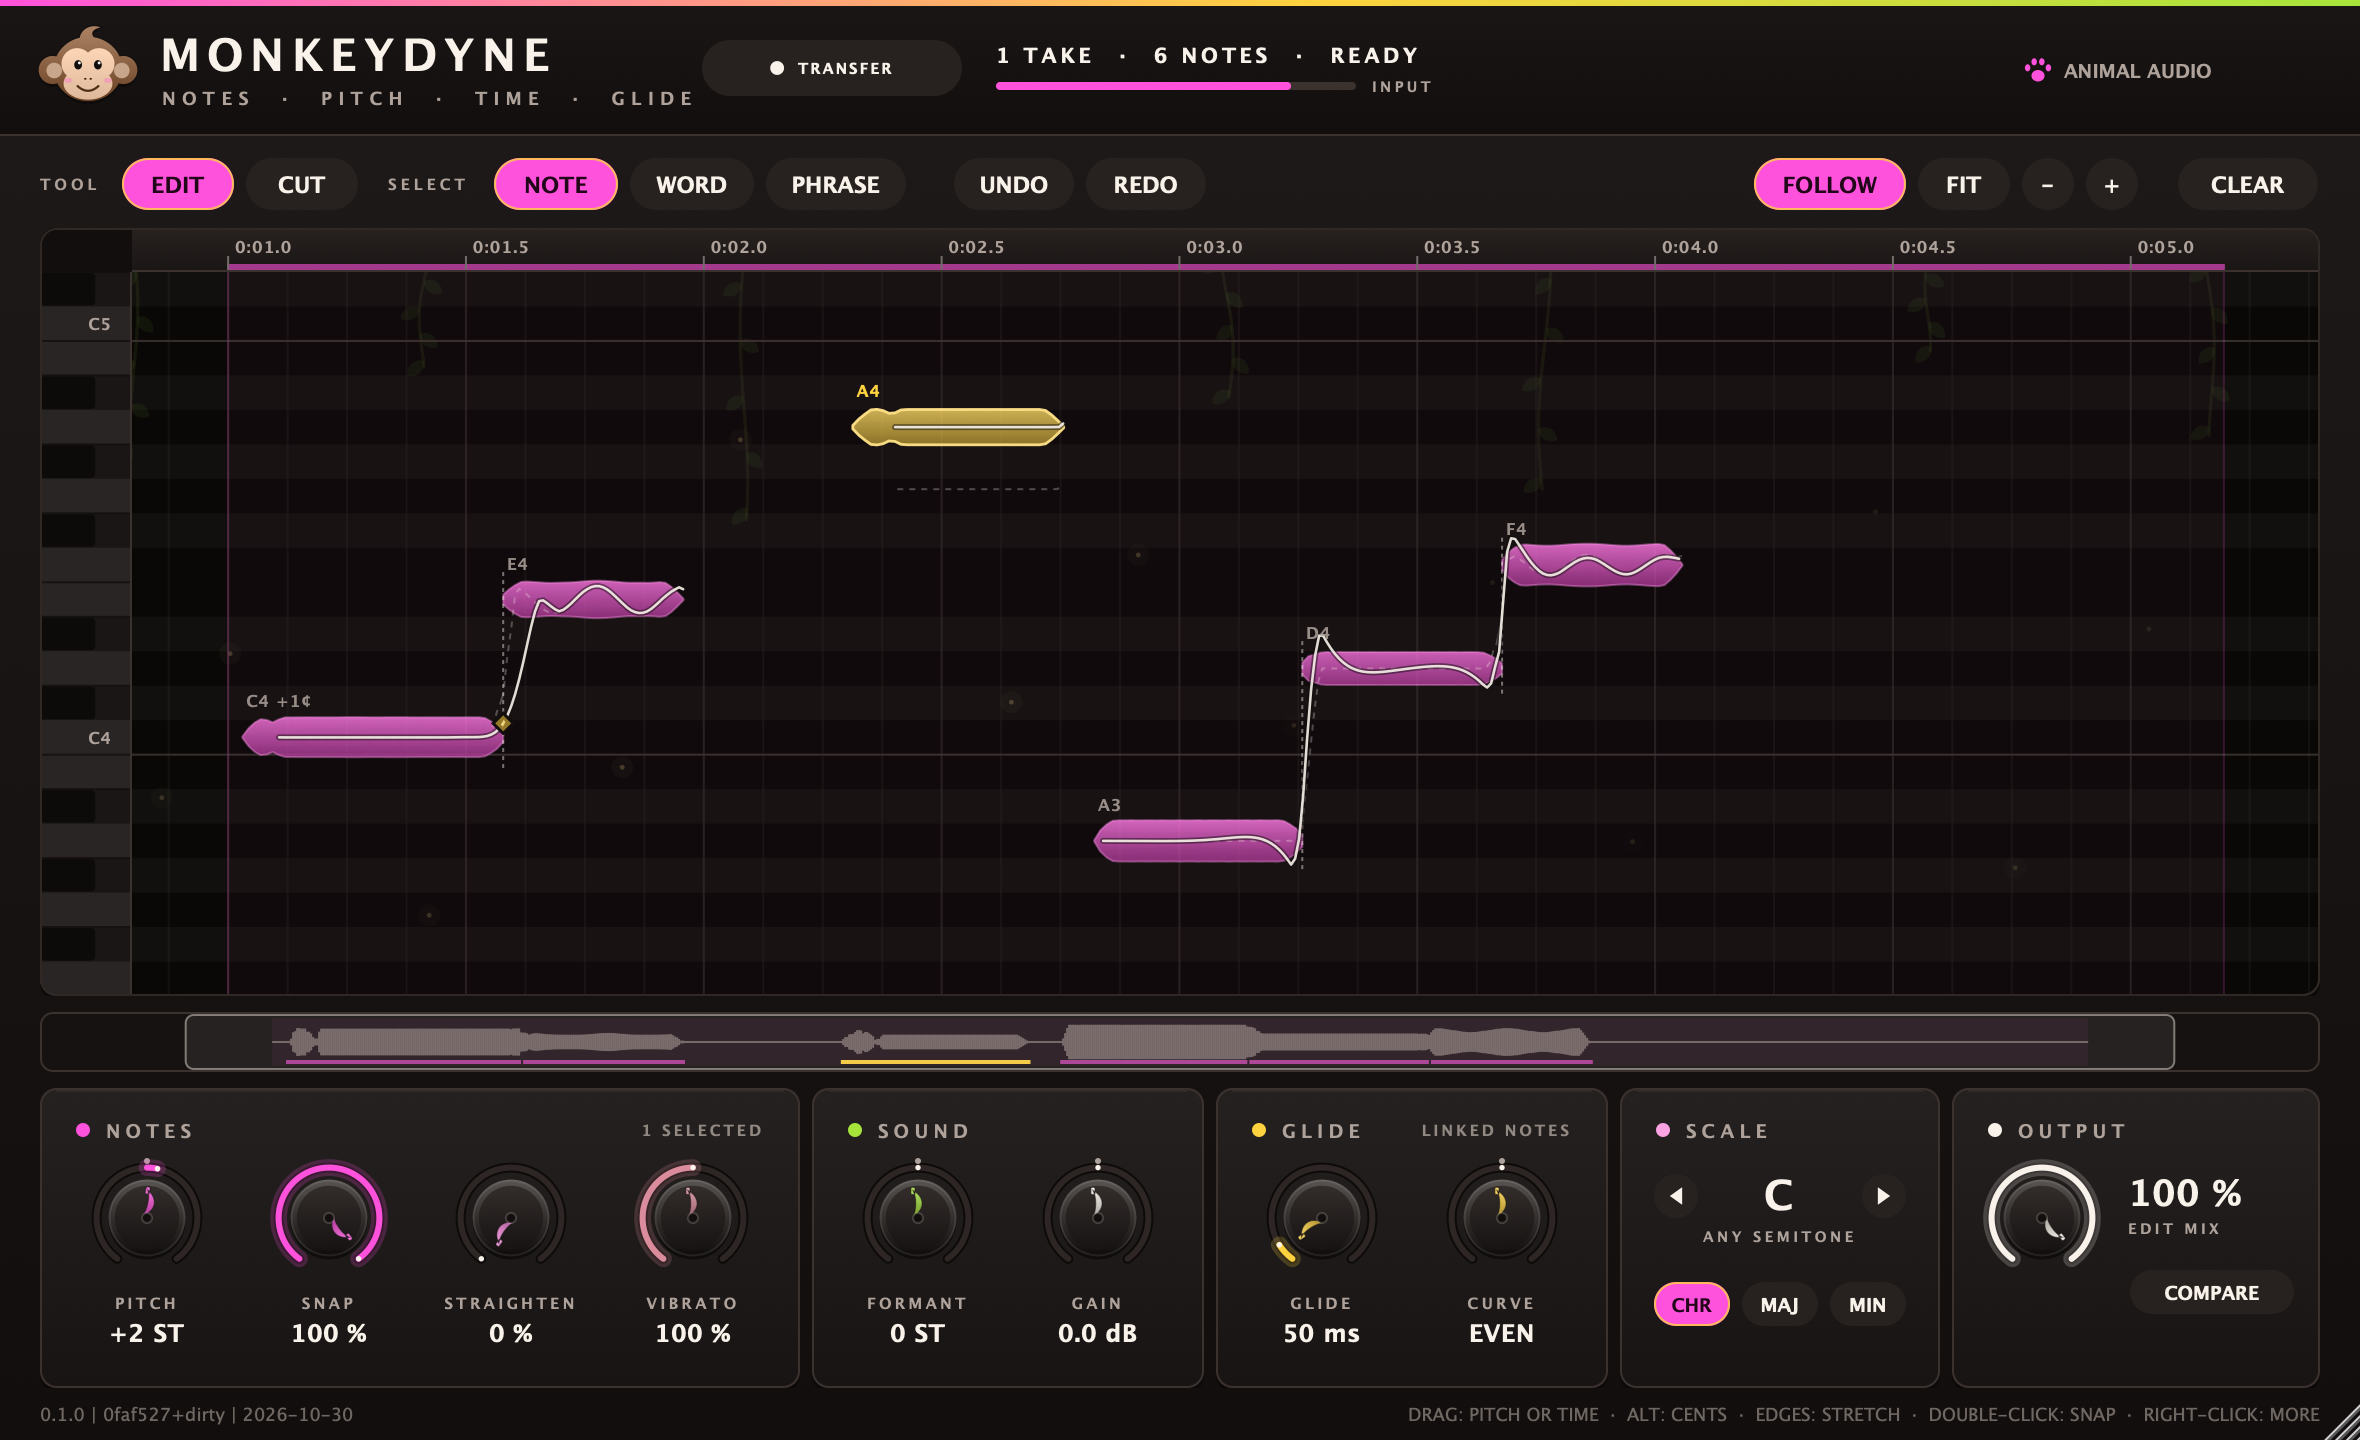
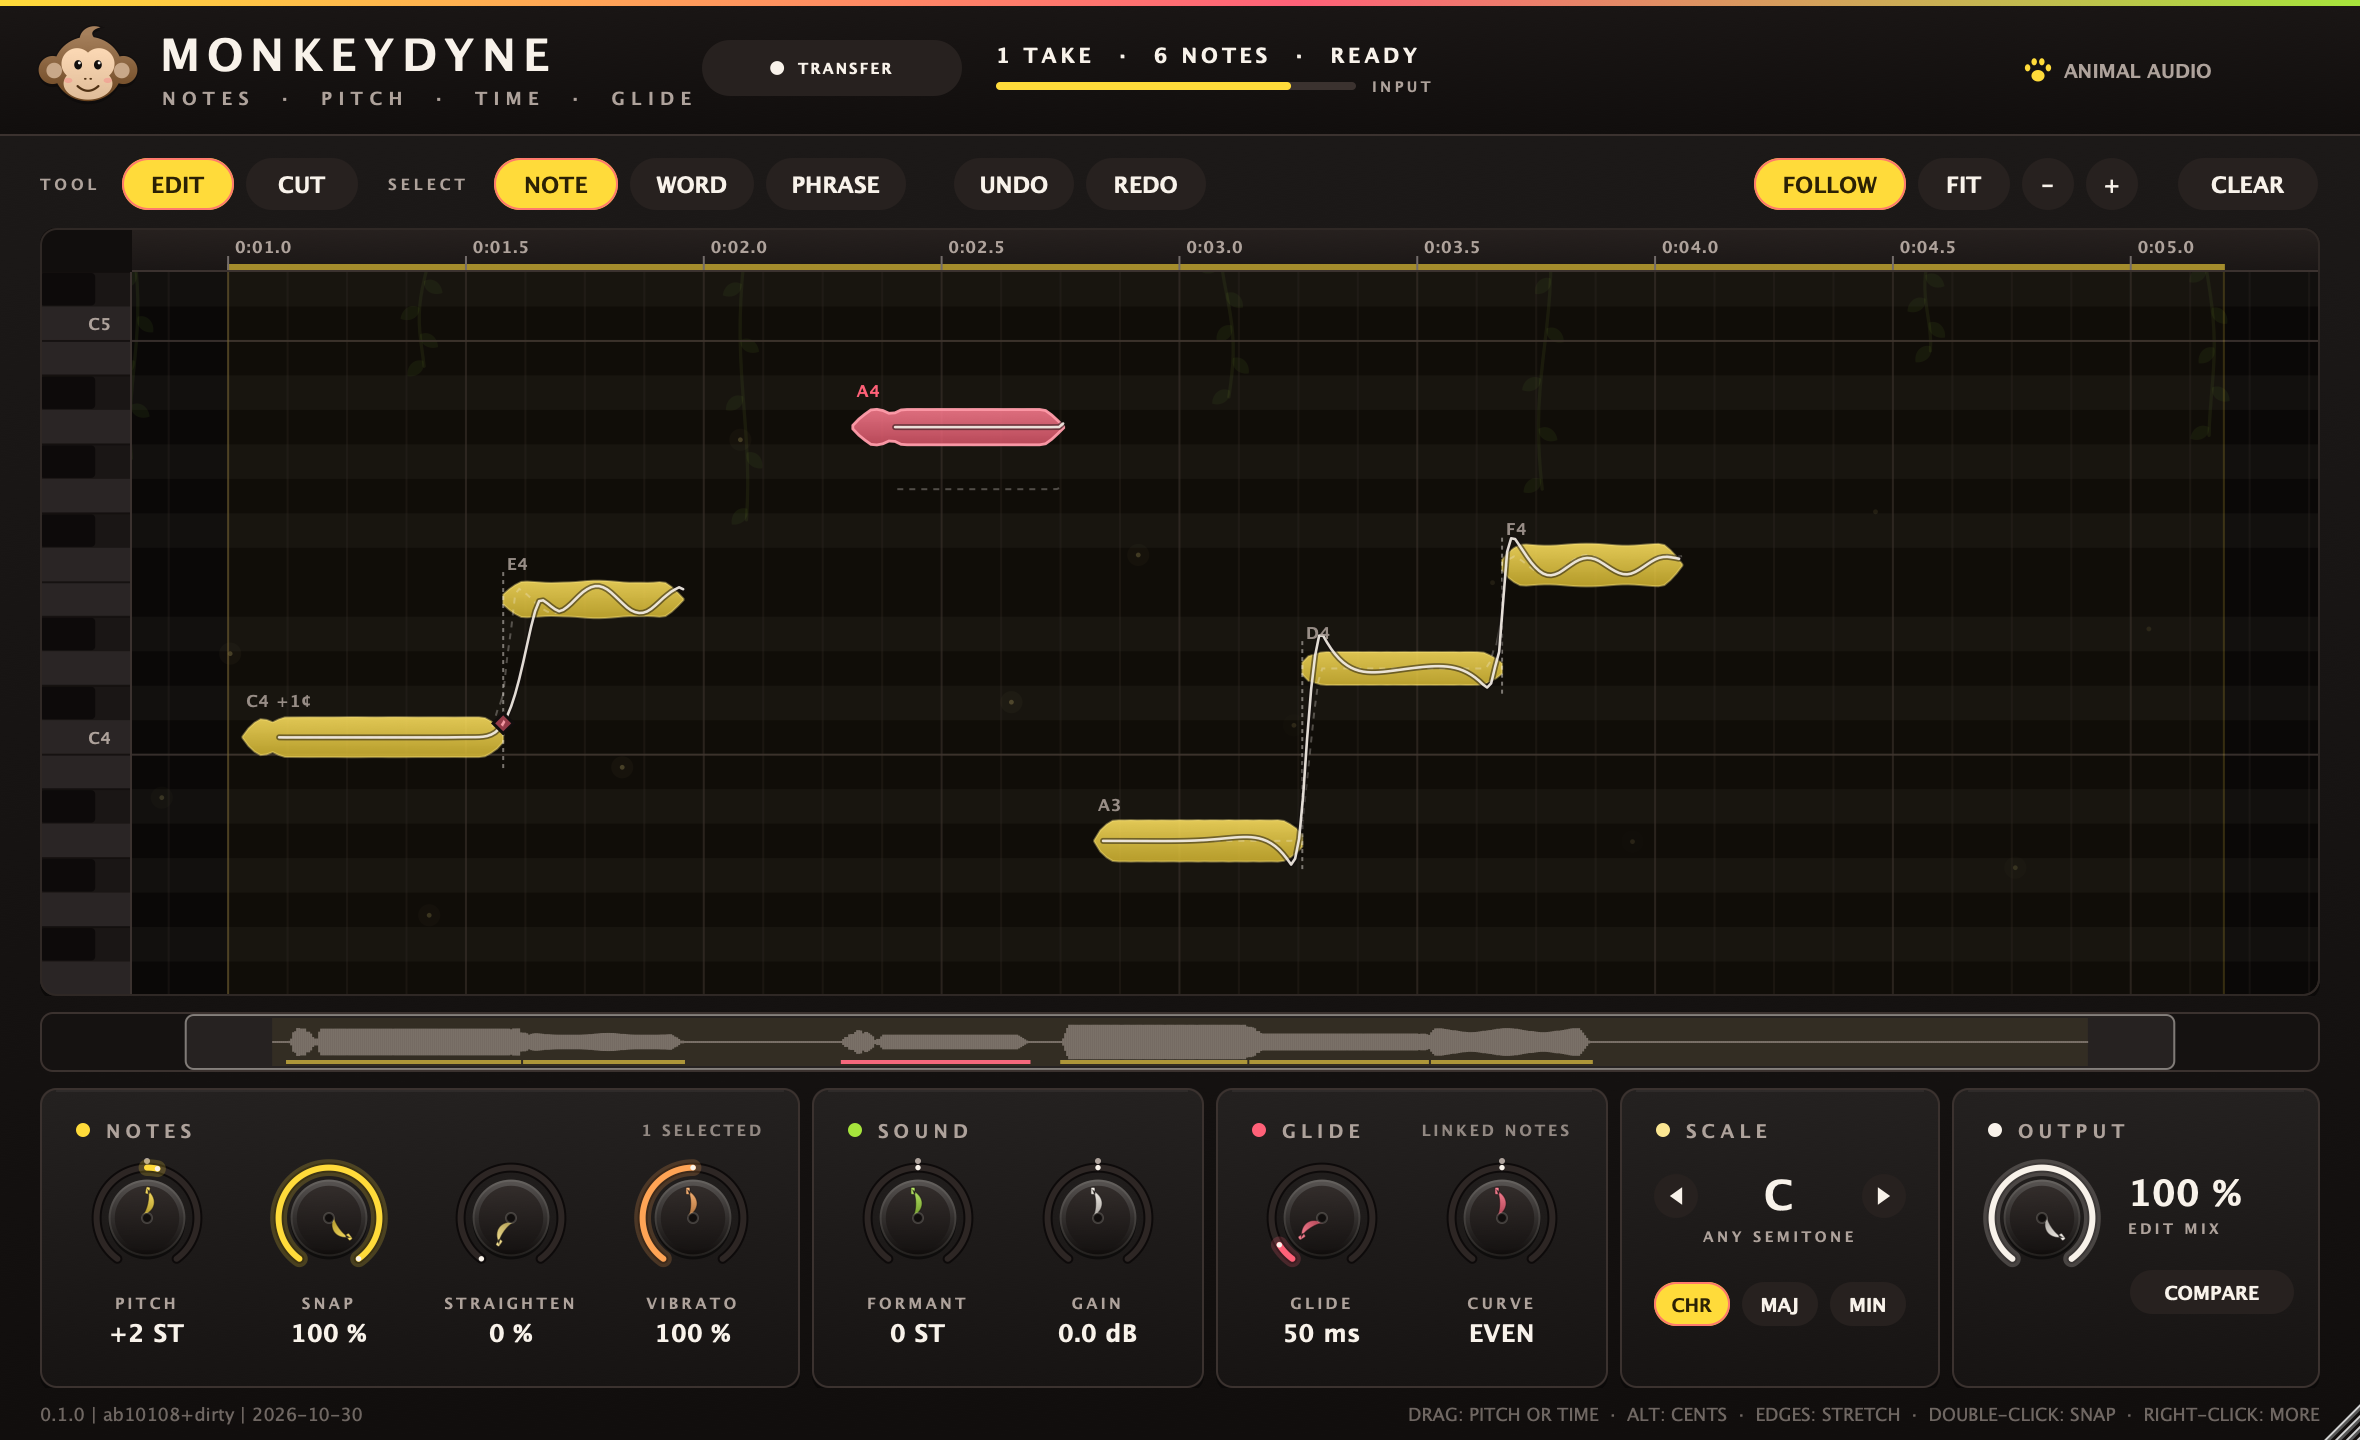
Monkeydyne: banana yellow theme
Yellow notes, controls and fur (kThemeHue 50), hibiscus coral for the selection and glides, lime formant. Note blobs are filled nearly opaque so the yellow stays banana instead of olive.

diff --git a/plugins/monkeydyne/Source/ui/MonkeydyneMotif.cpp b/plugins/monkeydyne/Source/ui/MonkeydyneMotif.cpp
@@ -13,10 +13,10 @@ juce::Rectangle<float> disc(juce::Point<float> centre, float radius)
     return juce::Rectangle<float>(radius * 2.0f, radius * 2.0f).withCentre(centre);
 }
 
-/** Banana yellow turned toward orange: warm, before it is darkened into fur and lightened into the face. */
+/** The banana yellow turned toward orange: warm, before it is darkened into fur and lightened into the face. */
 juce::Colour tan(const animalaudio::ui::Palette& palette)
 {
-    return palette.accentAlt.withRotatedHue(-0.055f);
+    return palette.accent.withRotatedHue(-0.055f);
 }
 
 juce::Colour fur(const animalaudio::ui::Palette& palette)
@@ -31,7 +31,7 @@ juce::Colour face(const animalaudio::ui::Palette& palette)
 
 juce::Colour firefly(const animalaudio::ui::Palette& palette)
 {
-    return palette.accentAlt.interpolatedWith(palette.text, 0.45f);
+    return palette.accent.interpolatedWith(palette.text, 0.45f);
 }
 
 float fract(float x)
@@ -117,7 +117,7 @@ void MonkeydyneMotif::drawMascot(juce::Graphics& g, juce::Rectangle<float> area,
                                            faceColour.darker(0.12f), at(0.5f, 0.78f).x, at(0.5f, 0.78f).y, false));
     g.fillPath(mask);
 
-    g.setColour(palette.accent.withAlpha(0.3f));
+    g.setColour(palette.accentAlt.withAlpha(0.3f));
     g.fillEllipse(oval(0.31f, 0.60f, 0.08f, 0.05f));
     g.fillEllipse(oval(0.69f, 0.60f, 0.08f, 0.05f));
 

diff --git a/plugins/monkeydyne/Source/ui/MonkeydyneTheme.cpp b/plugins/monkeydyne/Source/ui/MonkeydyneTheme.cpp
@@ -6,8 +6,8 @@ namespace monkeydyne::ui
 {
 animalaudio::ui::Palette makePalette()
 {
-    // Tropical canopy on a warm charcoal: hot pink notes, banana yellow for what is selected (and, turned toward
-    // orange and darkened, the monkey's fur), jungle lime for formant.
+    // Tropical canopy on a warm charcoal: banana yellow notes (turned toward orange and darkened, the monkey's
+    // fur), hibiscus coral for what is selected, jungle lime for formant.
     animalaudio::ui::Palette palette;
     palette.background = juce::Colour(0xff110e0d);
     palette.panel = juce::Colour(0xff1a1615);
@@ -15,9 +15,9 @@ animalaudio::ui::Palette makePalette()
     palette.outline = juce::Colour(0xff3b322f);
     palette.text = juce::Colour(0xfff8f2ea);
     palette.textDim = juce::Colour(0xffaea29b);
-    palette.accent = juce::Colour(0xffff52dc);
-    palette.accentAlt = juce::Colour(0xffffd23f);
-    palette.onAccent = juce::Colour(0xff220619);
+    palette.accent = juce::Colour(0xffffdb3a);
+    palette.accentAlt = juce::Colour(0xffff6178);
+    palette.onAccent = juce::Colour(0xff2b2105);
     palette.detail = juce::Colour(0xffa6e43c);
     palette.ambient = juce::Colour(0xff0a0807);
     return palette;

diff --git a/plugins/monkeydyne/Source/ui/NoteCanvas.cpp b/plugins/monkeydyne/Source/ui/NoteCanvas.cpp
@@ -608,8 +608,9 @@ void NoteCanvas::paintNotes(juce::Graphics& g, const TakeInfo& take, const dsp::
             continue;
         }
         const float lift = hot(ref) ? 0.12f : 0.0f;
-        g.setGradientFill(juce::ColourGradient(base.brighter(0.3f).withAlpha(0.82f + lift), 0.0f, cy - maxH,
-                                               base.darker(0.45f).withAlpha(0.74f + lift), 0.0f, cy + maxH, false));
+        // Nearly opaque and only lightly shaded: yellow faded or darkened over black turns olive.
+        g.setGradientFill(juce::ColourGradient(base.brighter(0.25f).withAlpha(0.88f + lift), 0.0f, cy - maxH,
+                                               base.darker(0.2f).withAlpha(0.84f + lift), 0.0f, cy + maxH, false));
         g.fillPath(path);
         g.setColour(base.brighter(0.6f).withAlpha(selected ? 0.95f : 0.4f + lift * 2.0f));
         g.strokePath(path, juce::PathStrokeType(selected ? 1.4f : 1.0f));

diff --git a/plugins/monkeydyne/tests/MonkeydyneEditorTests.cpp b/plugins/monkeydyne/tests/MonkeydyneEditorTests.cpp
@@ -150,9 +150,9 @@ TEST_CASE("monkeydyne: editor renders headlessly")
     const auto palette = ui::makePalette();
     const auto blob = rig.canvas().noteBounds({take.id, notes[go].id}).toNearestInt() + rig.canvas().getPosition();
     REQUIRE_FALSE(blob.isEmpty());
-    REQUIRE(hasHue(image, (blob * 2).reduced(4), palette.accentAlt)); // the selected note is yellow
+    REQUIRE(hasHue(image, (blob * 2).reduced(4), palette.accentAlt)); // the selected note is coral
     const auto other = rig.canvas().noteBounds(rig.note(4)).toNearestInt() + rig.canvas().getPosition();
-    REQUIRE(hasHue(image, (other * 2).reduced(4), palette.accent)); // the others pink
+    REQUIRE(hasHue(image, (other * 2).reduced(4), palette.accent)); // the others yellow
 }
 
 TEST_CASE("monkeydyne: an empty editor says how to start")

diff --git a/plugins/monkeydyne/Source/ui/Inspector.cpp b/plugins/monkeydyne/Source/ui/Inspector.cpp
@@ -71,7 +71,7 @@ Inspector::Inspector(EditController& c, const animalaudio::ui::Theme& t, juce::A
     addKnob({"VIBRATO", 0.0, 2.0, 0.01, 1.0, false, false, [](const dsp::Note& n) { return n.vibrato; },
              [](dsp::Note& n, float v) { n.vibrato = v; }, percent,
              "Fast pitch movement kept: 0% removes the vibrato, 100% as sung, 200% doubles it."},
-            palette.accent.interpolatedWith(palette.detail, 0.4f));
+            palette.accent.interpolatedWith(palette.accentAlt, 0.45f));
     addKnob({"FORMANT", -12.0, 12.0, 0.01, 0.0, true, true, [](const dsp::Note& n) { return n.formant; },
              [](dsp::Note& n, float change) { n.formant += change; },
              [](float v) { return formatSemitones(v).toUpperCase(); },

diff --git a/plugins/monkeydyne/Source/MonkeydyneEditor.cpp b/plugins/monkeydyne/Source/MonkeydyneEditor.cpp
@@ -259,7 +259,7 @@ void MonkeydyneEditor::paint(juce::Graphics& g)
     g.fillAll();
     animalaudio::ui::drawTitleBar(g, getLocalBounds().toFloat().withHeight(kHeaderH), theme);
 
-    // Transfer: a yellow ring breathes around the button while it records.
+    // Transfer: a coral ring breathes around the button while it records.
     if (owner.isCapturing())
     {
         const float pulse =

diff --git a/plugins/monkeydyne/Source/ui/MonkeydyneTheme.h b/plugins/monkeydyne/Source/ui/MonkeydyneTheme.h
@@ -4,7 +4,7 @@
 
 namespace monkeydyne::ui
 {
-inline constexpr float kThemeHue = 312.0f; // read by scripts/new_plugin.py to keep plugins' hues apart
+inline constexpr float kThemeHue = 50.0f; // read by scripts/new_plugin.py to keep plugins' hues apart
 
 animalaudio::ui::Palette makePalette();
 

diff --git a/AGENTS.md b/AGENTS.md
@@ -97,7 +97,7 @@ plugins/monkeydyne/   note-based vocal editor (own processor, worker thread and 
                       merge, link, reset), Renderer (offline TD-PSOLA), SegmentCache, Capture, Playback
   Source/engine/      Session (takes + notes + scale + undo), Worker (thread: capture chunks, analysis, renders),
                       StateCodec (MKD1 + XML + 24-bit FLAC per take)
-  Source/ui/          MonkeydyneTheme (kThemeHue 312), MonkeydyneMotif (monkey head, banana knob pointer, vines,
+  Source/ui/          MonkeydyneTheme (kThemeHue 50), MonkeydyneMotif (monkey head, banana knob pointer, vines,
                       fireflies), EditController (selection, gestures, undo), NoteCanvas (piano roll), Inspector,
                       Overview
   tests/              MonkeydyneTests (processor), MonkeydyneDspTests, MonkeydyneEditorTests;
@@ -200,7 +200,8 @@ processor when the concept needs it; keep Animal Audio branding (`BrandBadge`, p
 
 - Palette roles are fixed (`ui::Palette`: background/panel/panelRaised/outline, text/textDim,
   accent/accentAlt/onAccent, detail, ambient); values are per plugin in `plugins/<name>/Source/ui/<Name>Theme.cpp`,
-  started from `makePaletteFromHue(kThemeHue)` and hand-tuned. Hues of different plugins stay >= ~30 degrees apart.
+  started from `makePaletteFromHue(kThemeHue)` and hand-tuned. Hues of different plugins stay >= ~30 degrees apart
+  (one deliberate exception: Monkeydyne's banana yellow beside Duck's).
 - The animal is a `ui::Motif` subclass (mascot, knob cap, ambient background, decoration) using palette colours only.
 - Colour literals live only in Theme/Motif files. **UI layout is per plugin** (custom editor or shared widgets);
   `ui::ShaperEditor` is the optional curve-shaper layout Duck uses—reuse it when it fits, not as a series default.
@@ -367,9 +368,10 @@ elsewhere and during capture). Stopped, clicking a note auditions it. A take pla
   `Overview` strip; the `Inspector` (NOTES: PITCH / SNAP / STRAIGHTEN / VIBRATO, SOUND: FORMANT / GAIN, GLIDE:
   GLIDE / CURVE, SCALE, OUTPUT: MIX / COMPARE). PITCH, FORMANT and GAIN knobs are relative (each note keeps its
   offset); the others set absolute values. Editor tests use synthetic component events only.
-- Palette: Parrot's warm charcoal with tropical colours: hot pink for notes (`kThemeHue` 312); banana yellow
-  (`accentAlt`) marks the selection and glides (turned toward orange and darkened, it is the monkey's fur), jungle
-  lime (`detail`) the formant and the vines.
+- Palette: Parrot's warm charcoal with tropical colours: banana yellow for notes, controls and the banana pointers
+  (`kThemeHue` 50; turned toward orange and darkened, it is the monkey's fur); hibiscus coral (`accentAlt`) marks the
+  selection and glides, jungle lime (`detail`) the formant and the vines. The yellow sits next to Duck's on purpose
+  (requested); the coral, the lime and the layout keep the two apart.
 - Limits: monophonic; takes are tied to song time (moving the clip or changing tempo needs a new transfer); pYIN,
   not a neural tracker.
 
